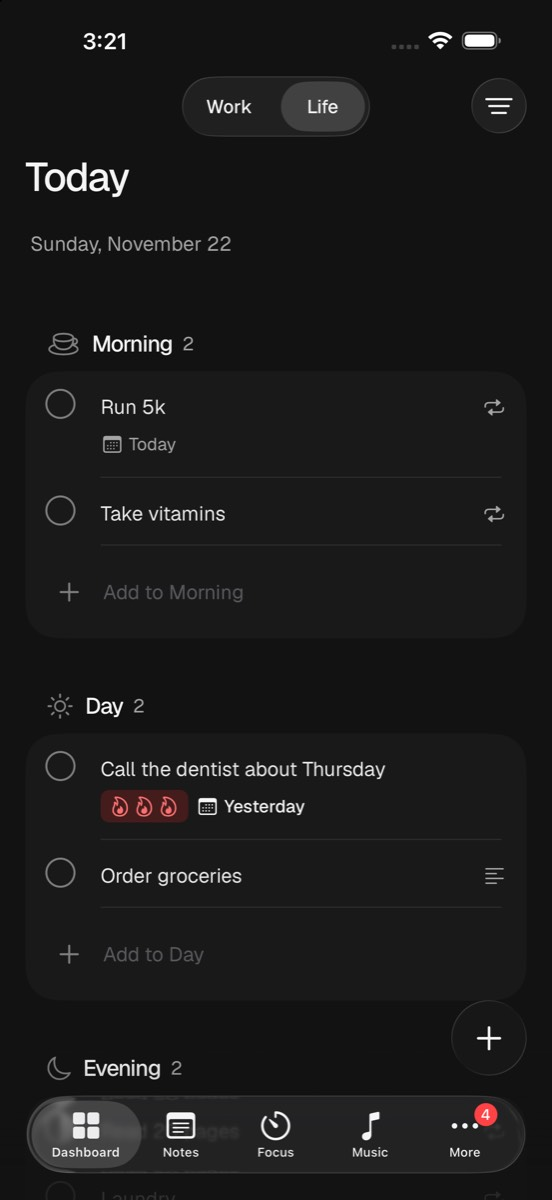
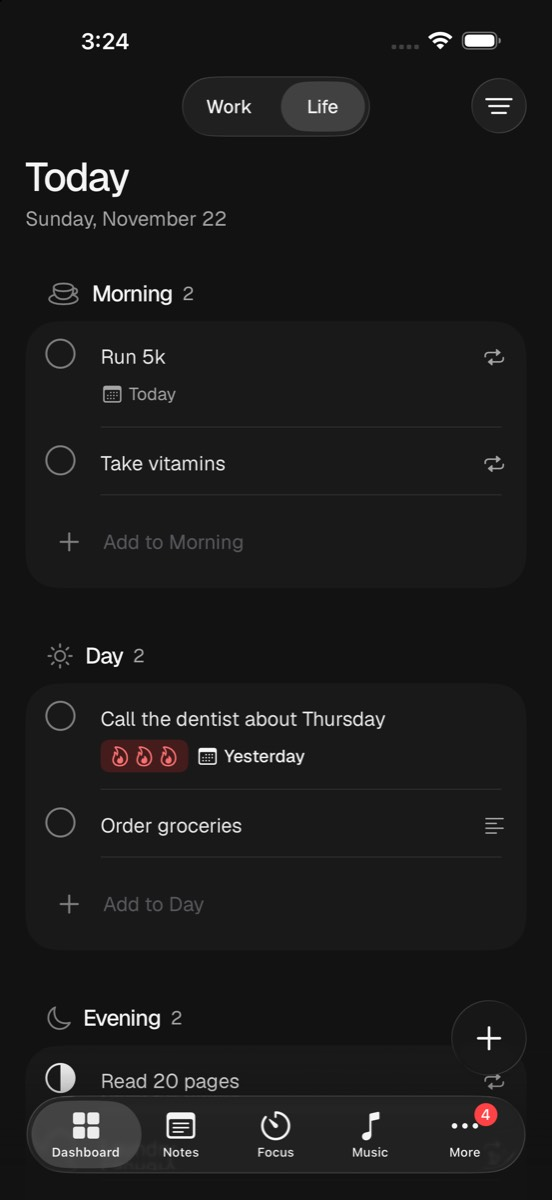
iPhone app: Dashboard list header as tight as the board
The date is the first section's header: close under the large title, lined
up with it, one section gap above the first card.

diff --git a/ios/LukeOS/Features/Dashboard/DashboardScreen.swift b/ios/LukeOS/Features/Dashboard/DashboardScreen.swift
@@ -90,7 +90,11 @@ struct DashboardScreen: View {
 
     private var todayList: some View {
         List {
-            Section { dateLine.padding(.horizontal, Space.xs).controlRow() }
+            // The date as the first section's header: close under the title, one section gap above the first card.
+            Section {} header: {
+                dateLine.textCase(nil).padding(.leading, -Space.xl).padding(.top, -Space.l)
+            }
+            .listSectionSpacing(Space.l)
             if !store.loaded && store.tasks.isEmpty {
                 ProgressView().frame(maxWidth: .infinity).listRowBackground(Color.clear)
             } else if let error = store.error, store.tasks.isEmpty {
